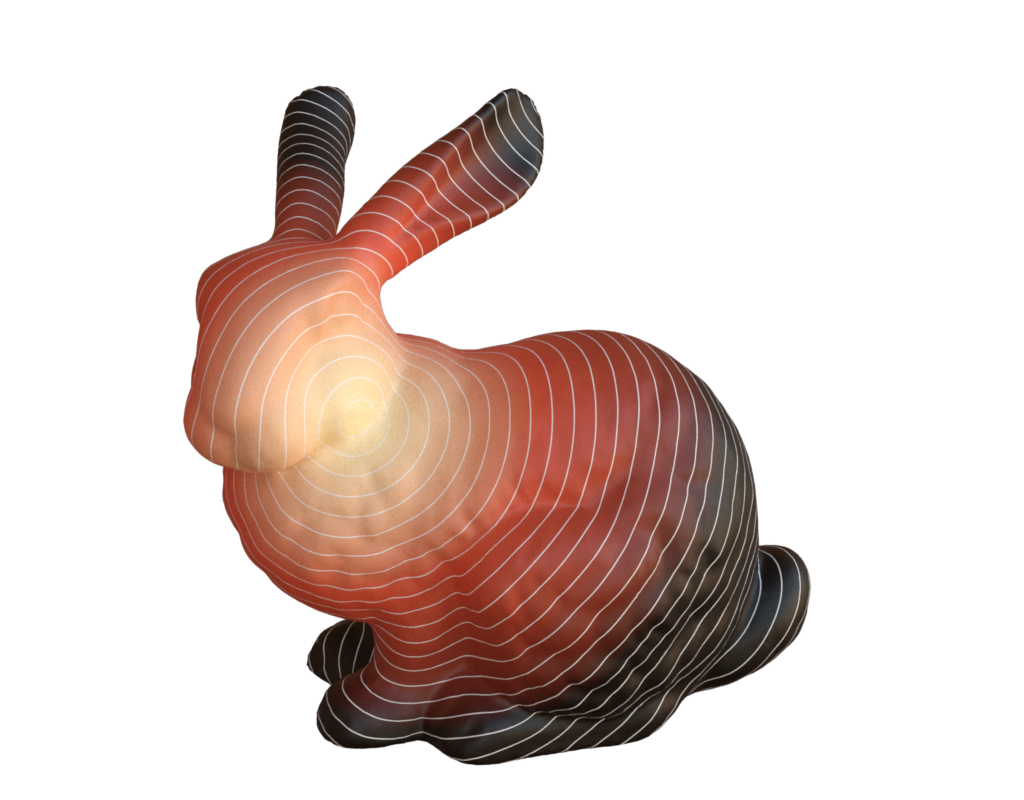
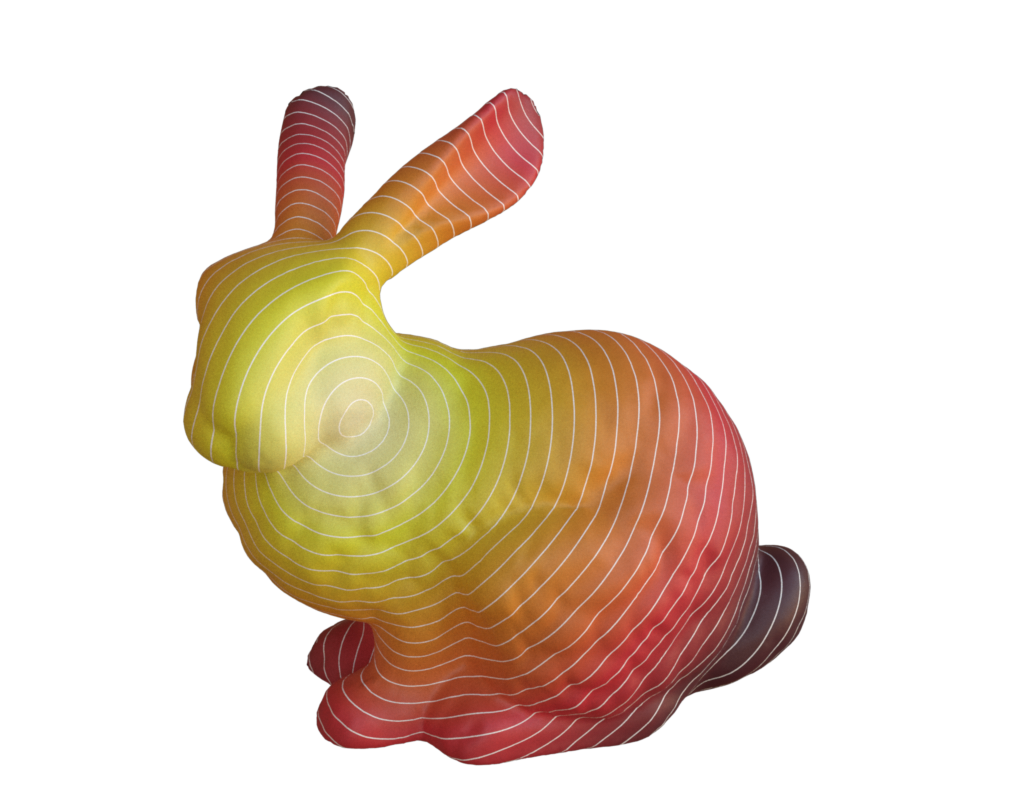
Update heat result.

Changed region(s): [[0.1562, 0.0938, 0.8125, 0.9688]]

diff --git a/gallery/Heat/heat.py b/gallery/Heat/heat.py
@@ -1,6 +1,7 @@
 #!/usr/bin/env python
 
 import hakowan as hkw
+import math
 
 # Step 1: Create a base layer.
 base = hkw.layer("data/bunny_heat.ply").channel(
@@ -8,14 +9,15 @@ base = hkw.layer("data/bunny_heat.ply").channel(
         # We used isocontour texture to visualize the geodesic distance field both as color
         # and as isocurves.
         color=hkw.texture.Isocontour(
-            data=hkw.attribute("dist", scale=100),
+            data="dist",
             texture1=hkw.texture.ScalarField(
                 "dist",
                 # Note that we used a custom colormap to approximate the original color map.
-                colormap=["#F1D77E", "#A9150A", "black", "black", "black"],
+                colormap=["#a69c65", "#9A9A07", "#983A06", "#7C070A", "#160507", "#060103", "#000000"],
             ),
             texture2="lightgray",
             ratio=0.95,
+            num_contours=100,
         ),
         roughness=0.5,
     )
@@ -27,3 +29,7 @@ config.sensor.location = [0, 1.2, 3]
 
 # Step 3: Render the image.
 hkw.render(base, config, filename="results/bunny_heat.png")
+
+# Step 4: Render the back side.
+back_side = base.rotate(axis=[0, 1, 0], angle=math.pi)
+hkw.render(back_side, config, filename="results/bunny_heat_back.png")

diff --git a/gallery/Heat/README.md b/gallery/Heat/README.md
@@ -4,7 +4,8 @@ This example reproduced [this
 figure](https://www.cs.cmu.edu/~kmcrane/Projects/HeatMethod/teaser.png) from the paper "[The Heat
 Method for Distance Computation](https://www.cs.cmu.edu/~kmcrane/Projects/HeatMethod/index.html)".
 
-[<img src="https://github.com/qnzhou/hakowan-gallery/blob/main/gallery/Heat/results/bunny_heat.png?raw=true"/>](https://github.com/qnzhou/hakowan-gallery/blob/main/gallery/Heat/results/bunny_heat.png?raw=true)
+[<img src="https://github.com/qnzhou/hakowan-gallery/blob/main/gallery/Heat/results/bunny_heat.png?raw=true" width=45%/>](https://github.com/qnzhou/hakowan-gallery/blob/main/gallery/Heat/results/bunny_heat.png?raw=true)
+[<img src="https://github.com/qnzhou/hakowan-gallery/blob/main/gallery/Heat/results/bunny_heat_back.png?raw=true" width=45%/>](https://github.com/qnzhou/hakowan-gallery/blob/main/gallery/Heat/results/bunny_heat_back.png?raw=true)
 
 ## Data
 
